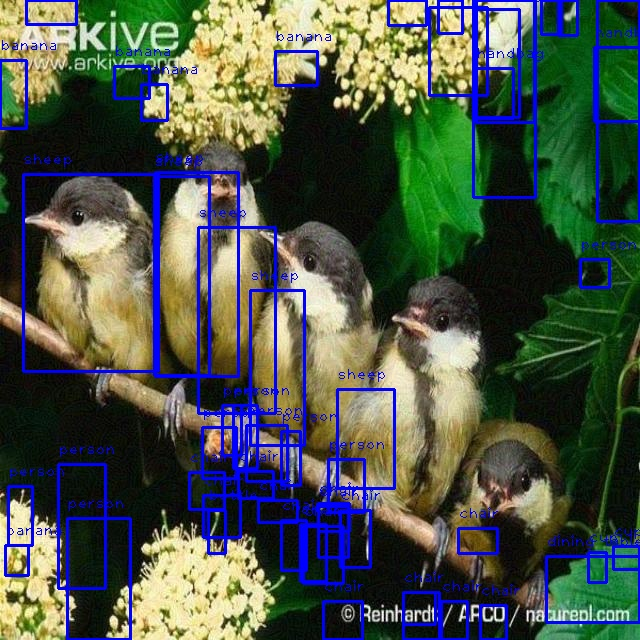
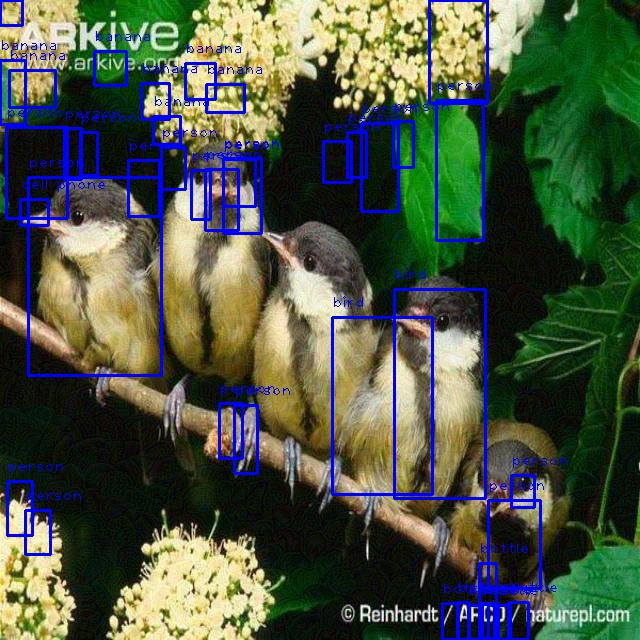
update

Changed region(s): [[0.0, 0.0, 1.0, 1.0], [0.5, 0.0, 1.0, 0.4688], [0.0, 0.6875, 0.2188, 1.0]]

diff --git a/code/main/attack_gpu.py b/code/main/attack_gpu.py
@@ -5,9 +5,13 @@ from lib.loss import confidence_increase_loss
 from lib.utils import save_image_from_tensor
 
 # 配置PGD攻击参数
-epsilon = 8 / 255  # 最大扰动 (标准图像范围是0-1，8/255是常见值)
-alpha = 2 / 255    # 每步走多远 (步长)
-num_steps = 1000     # 总步数
+epsilon = 8 / 255  # 最大扰动
+alpha = 2 / 255    # 步长
+num_steps = 200   # 总步数
+
+# 设置设备
+device = torch.device('cuda:0' if torch.cuda.is_available() else 'cpu')
+print("Using device:", device)
 
 # 读取原始图像和预测
 preds, im_tensor = get_raw_output_img(IMAGE_PATH)

diff --git a/code/main/predict.py b/code/main/predict.py
@@ -36,13 +36,9 @@ result_img, _, labels = predict_and_detect(model, image, conf=0.3)
 cv2.imwrite(PREDICTED_PATH, result_img)
 # 输出检测到的类型标签
 print("Detected Labels:", labels)
-'''
 # 显示带标注的图片
 cv2.imshow("Image", result_img)
-cv2.imwrite("Project/Active/Latency_attack/data/Result", result_img)
-
-# 输出检测到的类型标签
-print("Detected Labels:", labels)
+'''
 
 cv2.waitKey(0)
 '''

diff --git a/code/main/lib/detect.py b/code/main/lib/detect.py
@@ -4,7 +4,7 @@ from lib.config import MODELV8N_PATH
 
 model = YOLO(MODELV8N_PATH)
 
-def detect_image(image,conf=0.5):
+def detect_image(image,conf=0.3):
     results = model(image, verbose=False, conf=conf)
     detections = []
     for r in results:
